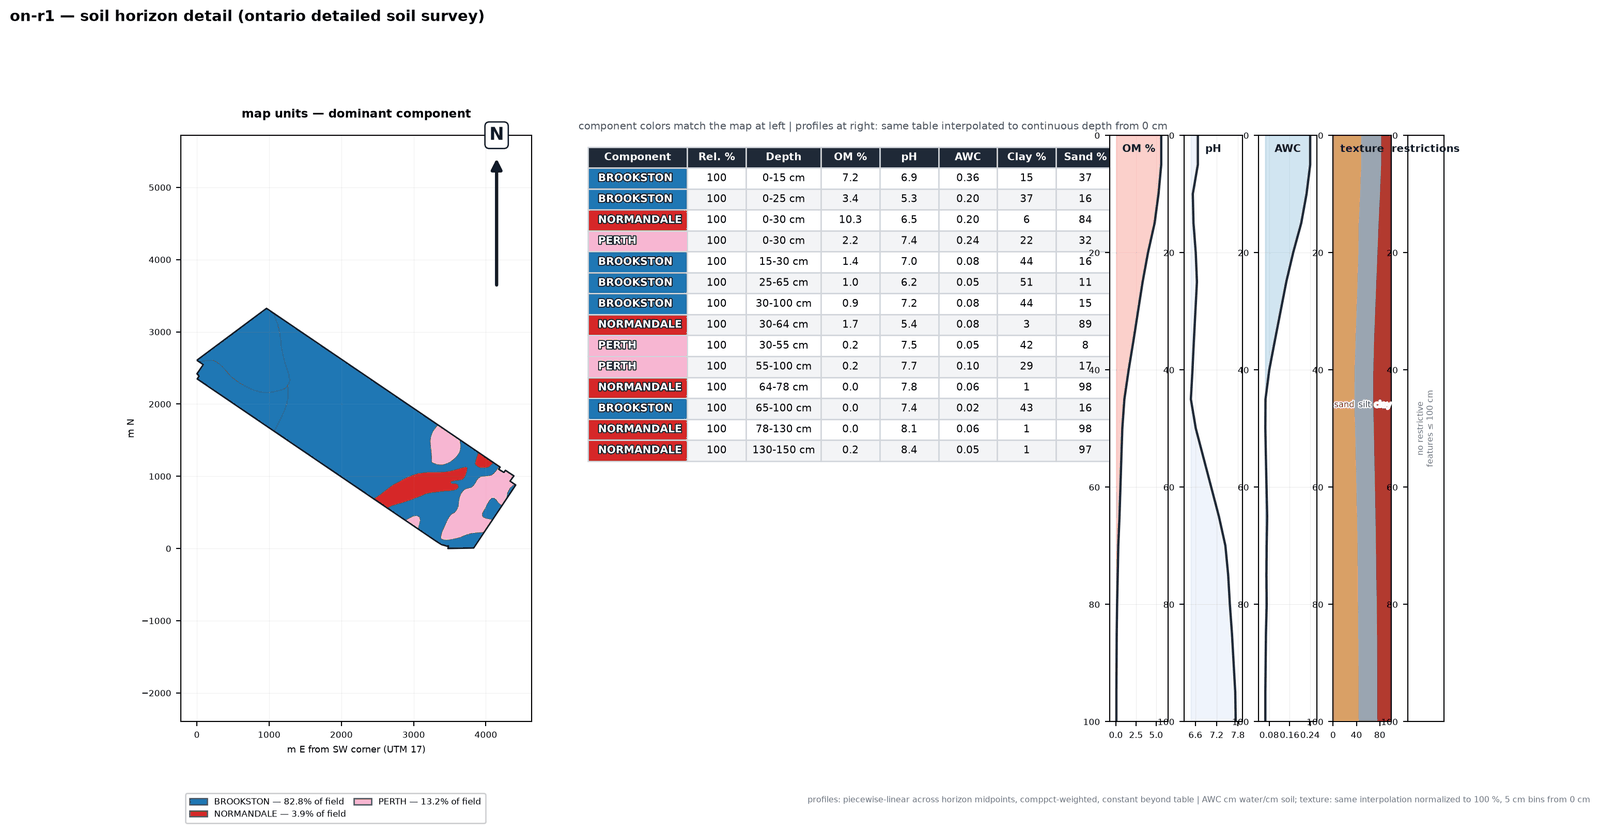
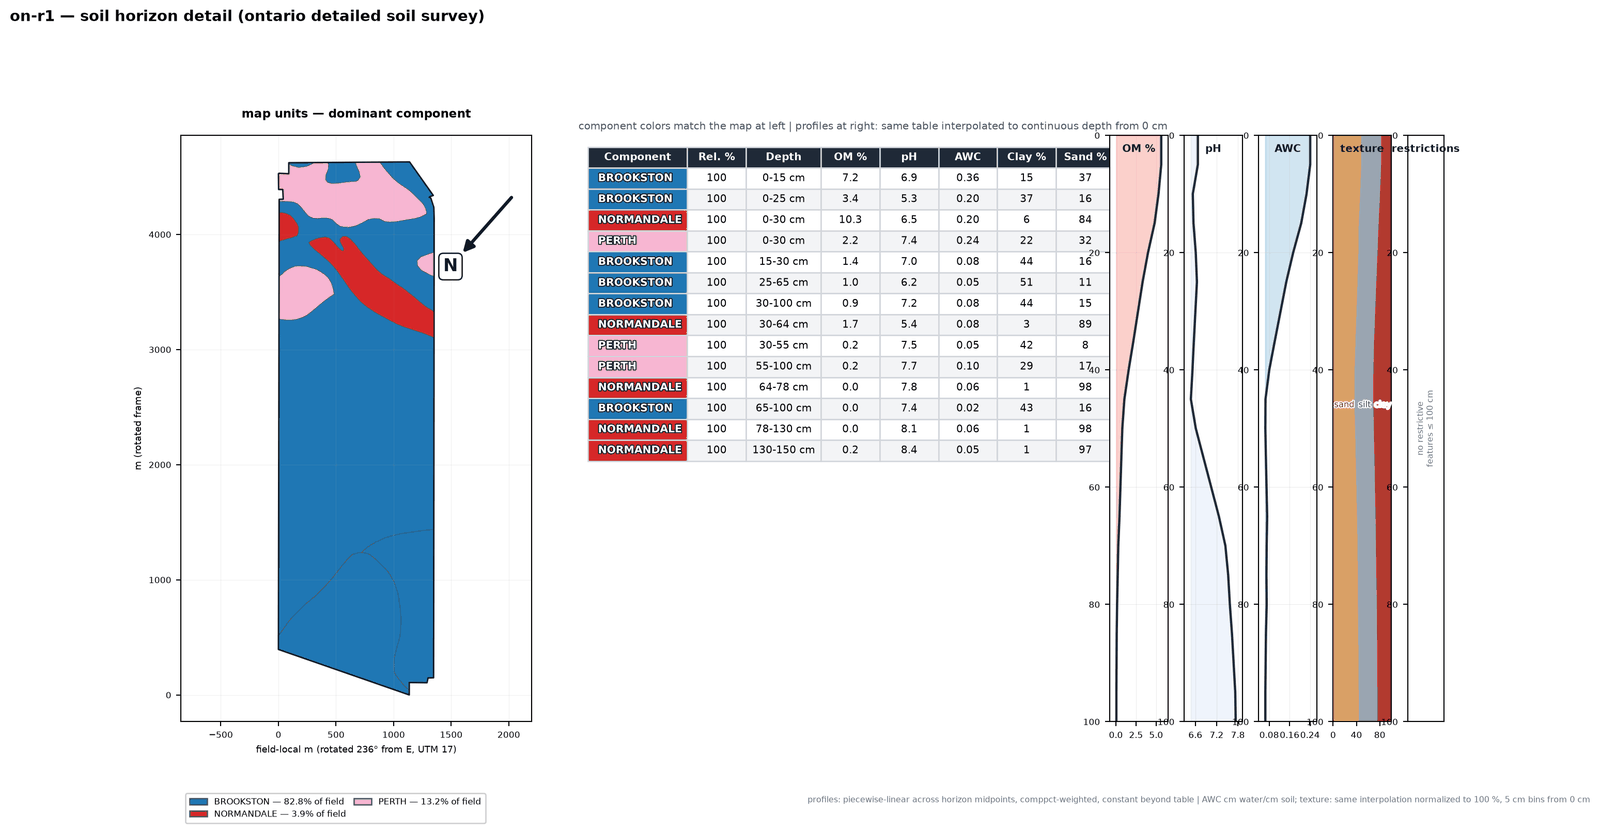
field-map-frame: auto viewport rotation ships in render_horizon_table
- pin UTM (0,0) at SW corner -> measure panel aspect at draw time -> rotate
  field long edge onto panel long edge -> RE-pin (0,0) at the SW corner of
  the rotated bbox -> counter-rotate the boxed north arrow (tip =
  (cx+r*sin rot, cy+r*cos rot)); axis states 'rotated NN deg from E'
- near-zero rotations normalize to exactly 0 (clean 'm E from SW corner')
- on-r1 tilted rectangle now stands upright and fills the portrait panel;
  ia-r1 stays plain. Vision-QC PASS both.
- references/field-map-frame.md synced to the shipped contract

Changed region(s): [[0.125, 0.1561, 0.3438, 0.8427], [0.1562, 0.8739, 0.3125, 0.9052], [0.0625, 0.4994, 0.0938, 0.5306]]

diff --git a/my-farm-advisor/data-pipeline/src/scripts/reporting/generate_soil_texture_triangles.py b/my-farm-advisor/data-pipeline/src/scripts/reporting/generate_soil_texture_triangles.py
@@ -445,23 +445,55 @@ def render_horizon_table(csv_path: Path, label: str, out: Path, source_note: str
         _zone = int((_lon0 + 180) // 6) + 1
         _epsg = (32600 if _lat0 >= 0 else 32700) + _zone
         _gu = _poly.to_crs(_epsg)
+        ax_m = fig.add_subplot(gs[0])
+        # --- field-local frame with automatic viewport fit -------------------
+        # 1) pin (0,0) at the SW corner; 2) measure the panel's real aspect
+        # after layout; 3) rotate the geometry so the field's long edge runs
+        # along the panel's long axis; 4) re-pin (0,0) at the SW corner of the
+        # ROTATED bbox (what the reader's ruler starts from); 5) the north
+        # arrow counter-rotates, the metre grid does not.
+        import math as _math
+        import shapely.affinity as _aff
         _x0, _y0, _, _ = _gu.total_bounds
         _gu = _gu.assign(geometry=_gu.geometry.translate(xoff=-_x0, yoff=-_y0))
-        ax_m = fig.add_subplot(gs[0])
+        fig.canvas.draw()
+        _rb = ax_m.get_position()
+        _panel_h, _panel_w = _rb.height * fig.get_size_inches()[1], _rb.width * fig.get_size_inches()[0]
+        _long_axis = "vertical" if _panel_h >= _panel_w else "horizontal"
+        _pts = list(_gu.dissolve().geometry.iloc[0].minimum_rotated_rectangle.exterior.coords)
+        _edges = list(zip(_pts, _pts[1:]))[:4]
+        (_x1, _y1), (_x2, _y2) = max(_edges, key=lambda e: (e[1][0]-e[0][0])**2 + (e[1][1]-e[0][1])**2)
+        _theta = _math.degrees(_math.atan2(_y2 - _y1, _x2 - _x1))
+        _rot = (_theta - 90.0) if _long_axis == "vertical" else _theta
+        if abs(_rot) > 0.5:
+            _gu = _gu.assign(geometry=_gu.geometry.map(lambda g: _aff.rotate(g, -_rot, origin=(0, 0))))
+            _x0, _y0, _, _ = _gu.total_bounds
+            _gu = _gu.assign(geometry=_gu.geometry.translate(xoff=-_x0, yoff=-_y0))
+        _rot %= 360.0
+        if _rot >= 359.75:
+            _rot = 0.0
         _gu.plot(ax=ax_m, color=_gu["c"].fillna("#d1d5db"),
                  linewidth=0.4, edgecolor="#4b5563")
         _gu.dissolve().boundary.plot(ax=ax_m, color="#111827", lw=1.1)
-        ax_m.set_xlabel(f"m E from SW corner (UTM {_zone})", fontsize=6.8)
-        ax_m.set_ylabel("m N", fontsize=6.8)
+        _axlab = (f"m E from SW corner (UTM {_zone})" if _rot < 0.5 else
+                  f"field-local m (rotated {_rot:.0f}° from E, UTM {_zone})")
+        ax_m.set_xlabel(_axlab, fontsize=6.8)
+        ax_m.set_ylabel("m N" if _rot < 0.5 else "m (rotated frame)", fontsize=6.8)
         ax_m.tick_params(labelsize=6.4)
         ax_m.grid(alpha=0.18, lw=0.4)
-        # north arrow, top-right, boxed for contrast
-        ax_m.annotate("", xy=(0.90, 0.965), xytext=(0.90, 0.74),
+        # north arrow, top-right, boxed for contrast; the geometry was rotated
+        # CW by _rot, so true north in the panel points (sin rot, cos rot)
+        _rad = _math.radians(_rot)
+        _dx, _dy = _math.sin(_rad), _math.cos(_rad)
+        _cx, _cy, _r = 0.885, 0.855, 0.105
+        ax_m.annotate("", xy=(_cx + _r * _dx, _cy + _r * _dy),
+                      xytext=(_cx - _r * 0.72 * _dx, _cy - _r * 0.72 * _dy),
                       xycoords="axes fraction",
                       arrowprops=dict(arrowstyle="-|>", lw=2.4, color="#111827",
                                       mutation_scale=16))
-        ax_m.text(0.90, 0.985, "N", transform=ax_m.transAxes, fontsize=13,
-                  fontweight="bold", ha="center", va="bottom", color="#111827",
+        ax_m.text(_cx + _r * 1.34 * _dx, _cy + _r * 1.34 * _dy, "N",
+                  transform=ax_m.transAxes, fontsize=13, fontweight="bold",
+                  ha="center", va="center", color="#111827",
                   bbox=dict(boxstyle="round,pad=0.25", fc="white", ec="#111827", lw=1.0))
         ax_m.set_title("map units — dominant component", fontsize=8.6, weight="bold", pad=13)
         _hand = [mpatches.Patch(facecolor=_col[n], edgecolor="#4b5563",

diff --git a/my-farm-advisor/data-pipeline/references/field-map-frame.md b/my-farm-advisor/data-pipeline/references/field-map-frame.md
@@ -45,19 +45,25 @@ def orient_field(gdf, long_axis: str = "horizontal") -> tuple:
 
 **Pitfalls, in order of how they will bite:**
 
-- **Translate first, rotate second**, about `origin=(0, 0)` — i.e. the field
-  SW corner after the UTM pin. Rotating about the geographic origin flings
-  the field off-canvas.
+- **Translate → rotate → re-translate.** Pin SW at (0,0), rotate the geometry
+  about that origin, then re-pin (0,0) at the SW corner of the **rotated**
+  bounding box — that is the corner the reader's ruler starts from. Rotating
+  about the geographic origin flings the field off-canvas.
+- **Pick the orientation from the panel's actual aspect at draw time**
+  (`fig.canvas.draw()` → `ax.get_position()` × figsize): field long edge along
+  the panel's long edge, always. Never hardcode "horizontal".
 - **The north arrow rotates opposite to the data.** The data frame no longer
-  points up after rotation; the arrow must show `N` at `+rot°` from up:
-  `arrowprops=dict(arrowstyle="-|>")` +
-  `matplotlib.transforms.Affine2D().rotate_deg_around(0.9, 0.85, rot)` on the
-  annotation. Rotating the geometry and keeping a straight-up arrow is a
+  points up after rotation. If the geometry was rotated clockwise by `rot`,
+  the arrow tip must point `(cx + r·sin rot, cy + r·cos rot)` in
+  axes-fraction coords (straight up is `(0, 1)`), with the boxed `N` label
+  beyond the tip. Rotating the geometry and keeping a straight-up arrow is a
   lie, not a simplification.
 - **Keep the metre grid axis-aligned to the frame, not the field**: gridlines
   read as distances; the field rotates inside them.
 - When `rot != 0`, label the axes `"field-local m (rotated {rot:.0f}° from E)"`
-  — "from SW corner" alone implies unrotated easting.
+  — "from SW corner" alone implies unrotated easting. Normalize |rot| < 0.25°
+  to exactly 0 so near-vertical fields keep the plain "m E from SW corner"
+  label and a straight arrow instead of a noisy "360°".
 - Rotation is presentational: never store rotated geometries as the field
   boundary of record; re-apply at render time from the EPSG:4326 boundary.
 
